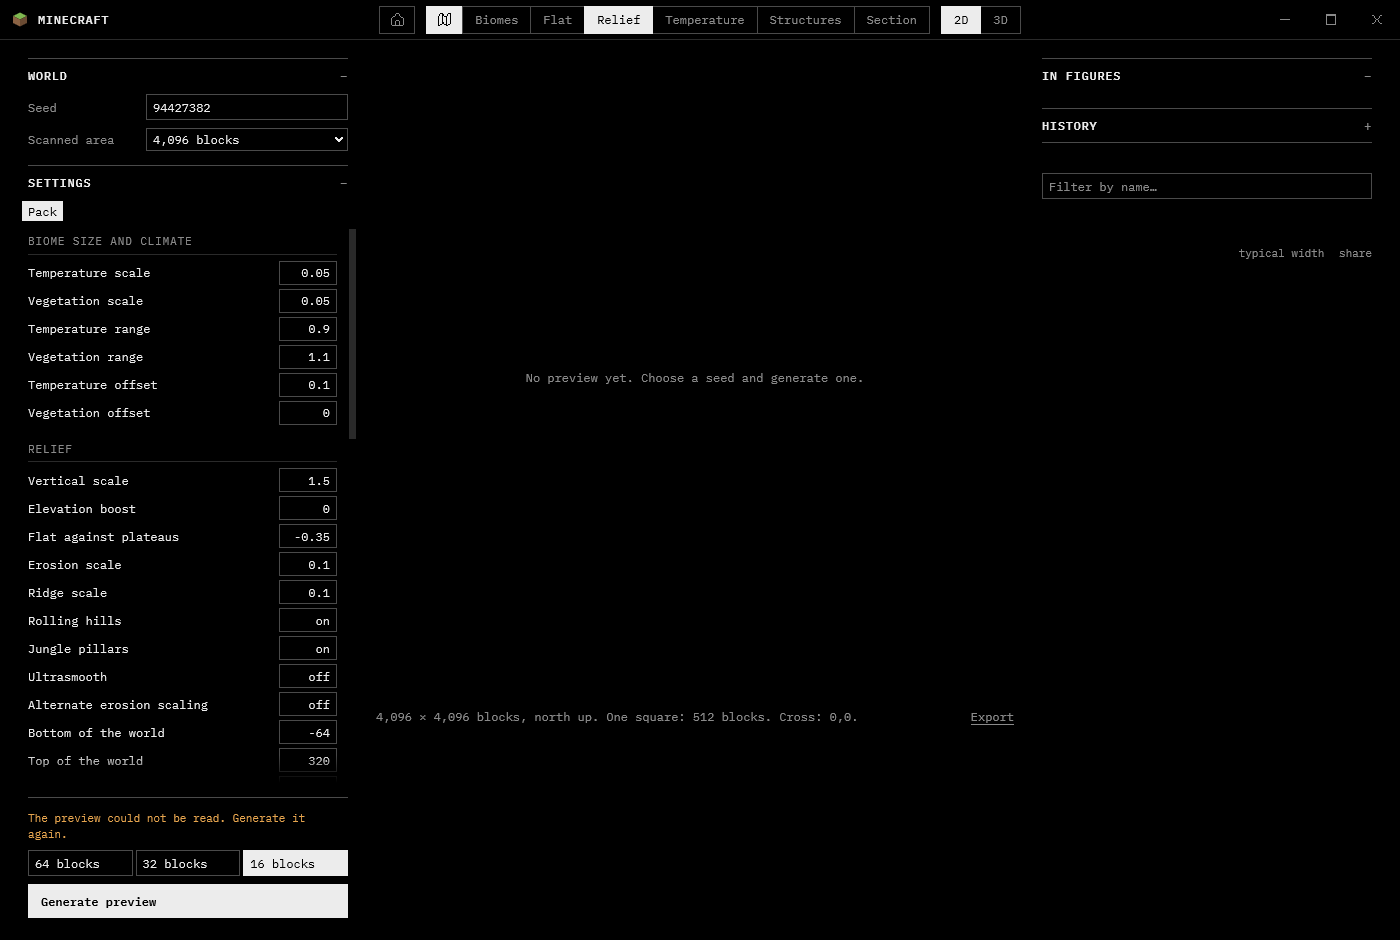
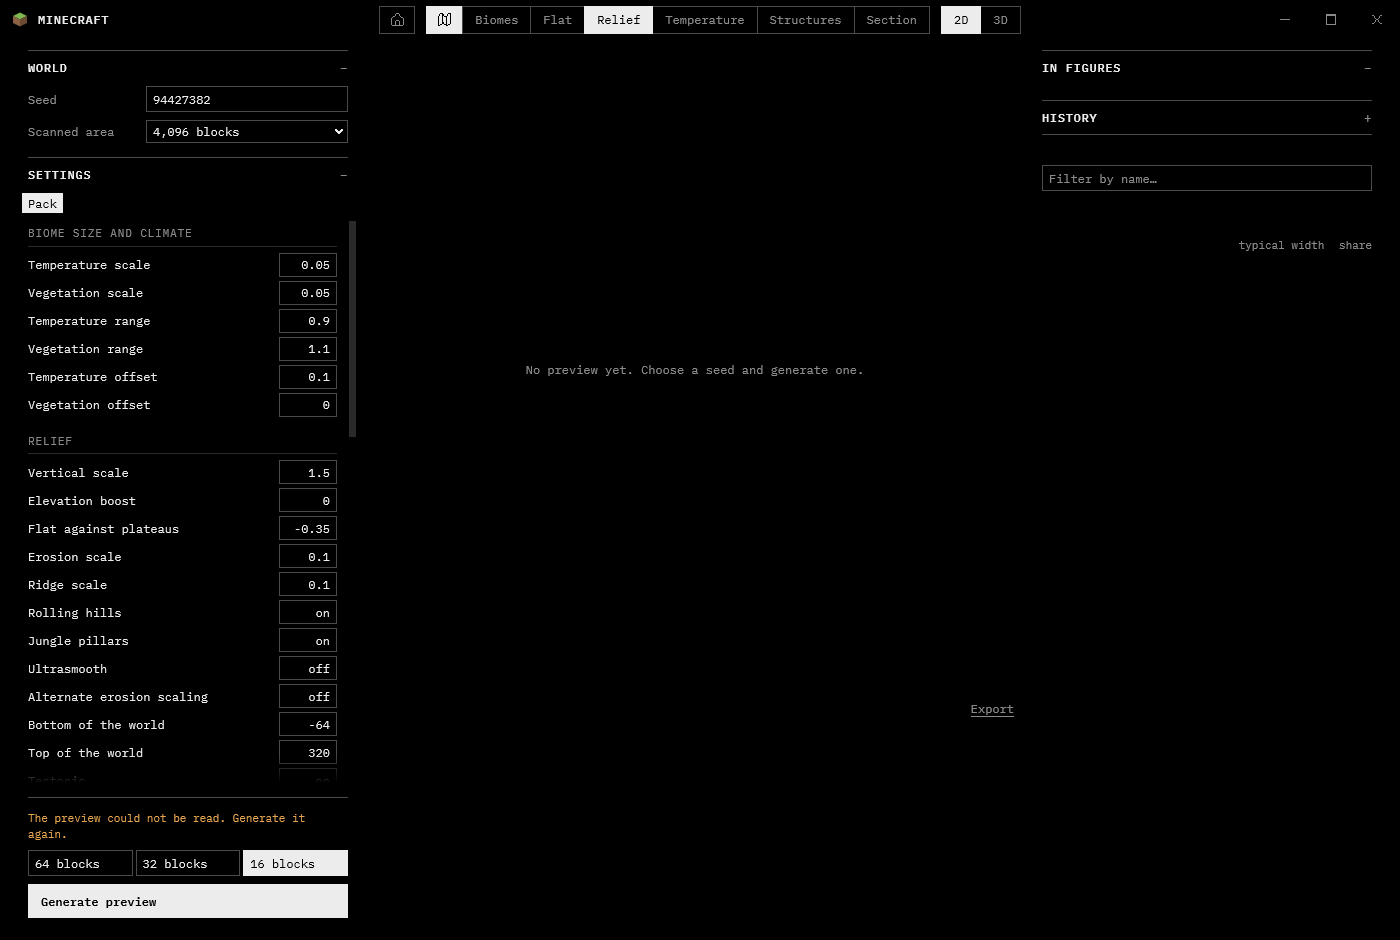
fix(preview): no probe line before a map exists; Home placeholder no longer promises step 21

diff --git a/demos/preview/src/shell.rs b/demos/preview/src/shell.rs
@@ -973,7 +973,8 @@ fn note(ui: &mut Ui, words: &str) {
 /// What `#probe` says: the point or structure under the pointer when it is over the map, else the area
 /// (`restProbe`, 1761-1765, and the `mousemove` of 1828-1835). The pointer is judged against the last frame.
 fn probe_text(ui: &Ui, s: &PreviewState, ids: &ShellIds, side: f32, world: Option<&World>) -> String {
-    let Some(w) = world else { return text::area_probe("4,096", "512", false) };
+    // The page leaves the line empty until a map exists (restProbe returns at `!world`).
+    let Some(w) = world else { return String::new() };
     let map_shown = ids.map != Id::ROOT;
     let rest = || text::area_probe(&text::num(w.span()), &text::num(w.span() / 8.0), map_shown && tick_at(w, s.look, s.cut_at).is_some());
     let (Some(p), Some(rect), Some(view)) = (ui.pointer(), ui.rect(ids.map), View::from_index(s.view)) else { return rest() };

diff --git a/demos/preview/src/text.rs b/demos/preview/src/text.rs
@@ -389,7 +389,7 @@ pub const CLOSE_WINDOW: &str = "Close";
 /// Line 466 of the preview page: the title of a view that needs the full detail, as the page sends it to the host.
 pub const NEEDS_FULL: &str = "Needs the 16-block detail: generate the map again at 16 blocks.";
 /// PLACEHOLDER: the launcher's Home is step 21; until then its pane says so. Not the launcher's wording.
-pub const HOME_LATER: &str = "The launcher's home comes with step 21.";
+pub const HOME_LATER: &str = "Home belongs to the launcher, not to this window.";
 
 // ---- the titles (the page's `title` attributes) ----
 

diff --git a/demos/preview/tests/home_hook.rs b/demos/preview/tests/home_hook.rs
@@ -122,5 +122,5 @@ fn without_a_home_the_pane_keeps_its_placeholder() {
     app.event(Event::Resized { width_px: 1400, height_px: 940, scale: 1.0 });
     app.frame(&mut r, 0.0);
     assert!(app.home().is_none());
-    assert!(app.list().cmds.iter().any(|c| matches!(c, Cmd::Text { text, .. } if text.contains("home comes with step 21"))));
+    assert!(app.list().cmds.iter().any(|c| matches!(c, Cmd::Text { text, .. } if text.contains("Home belongs to the launcher"))));
 }

diff --git a/demos/preview/tests/bar.rs b/demos/preview/tests/bar.rs
@@ -472,6 +472,7 @@ fn t3_errors_are_the_pages_note_and_the_status_line() {
     let mut rig = Rig::new(None, PreviewState::for_world(None), 1400, 940, 1.0, true);
     assert!(says(&rig, preview::text::NO_PREVIEW));
     assert!(!says(&rig, preview::text::UNREADABLE));
+    assert_eq!(rig.app.ids().probe_text, "", "no map, no probe line (the page's restProbe)");
     rig.write("error_missing.png");
 
     let mut state = PreviewState::for_world(None);
